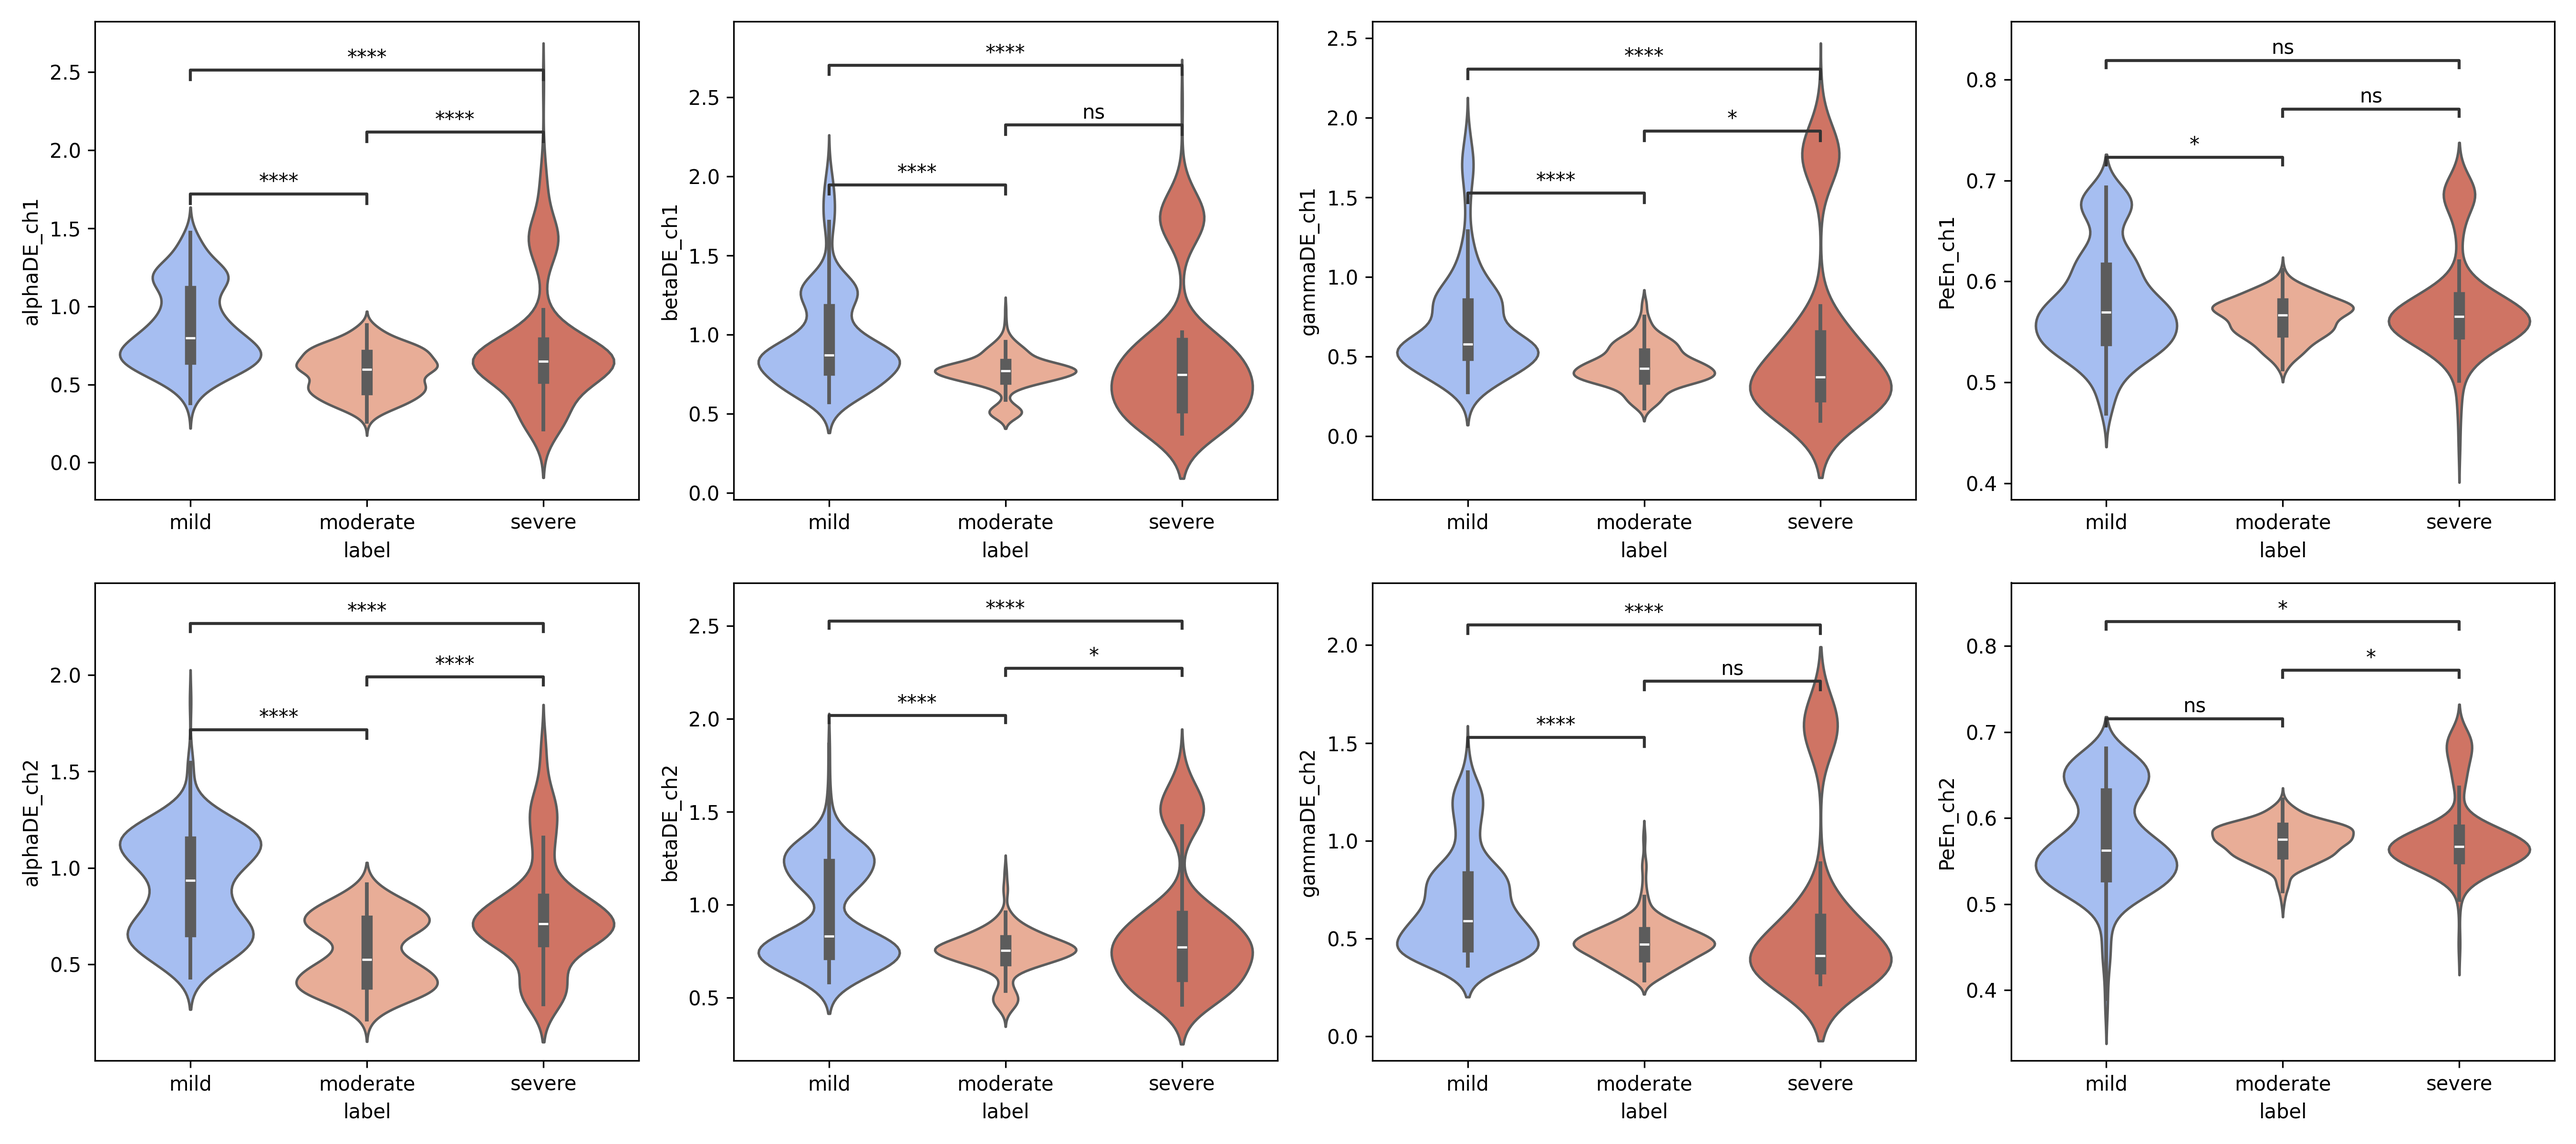
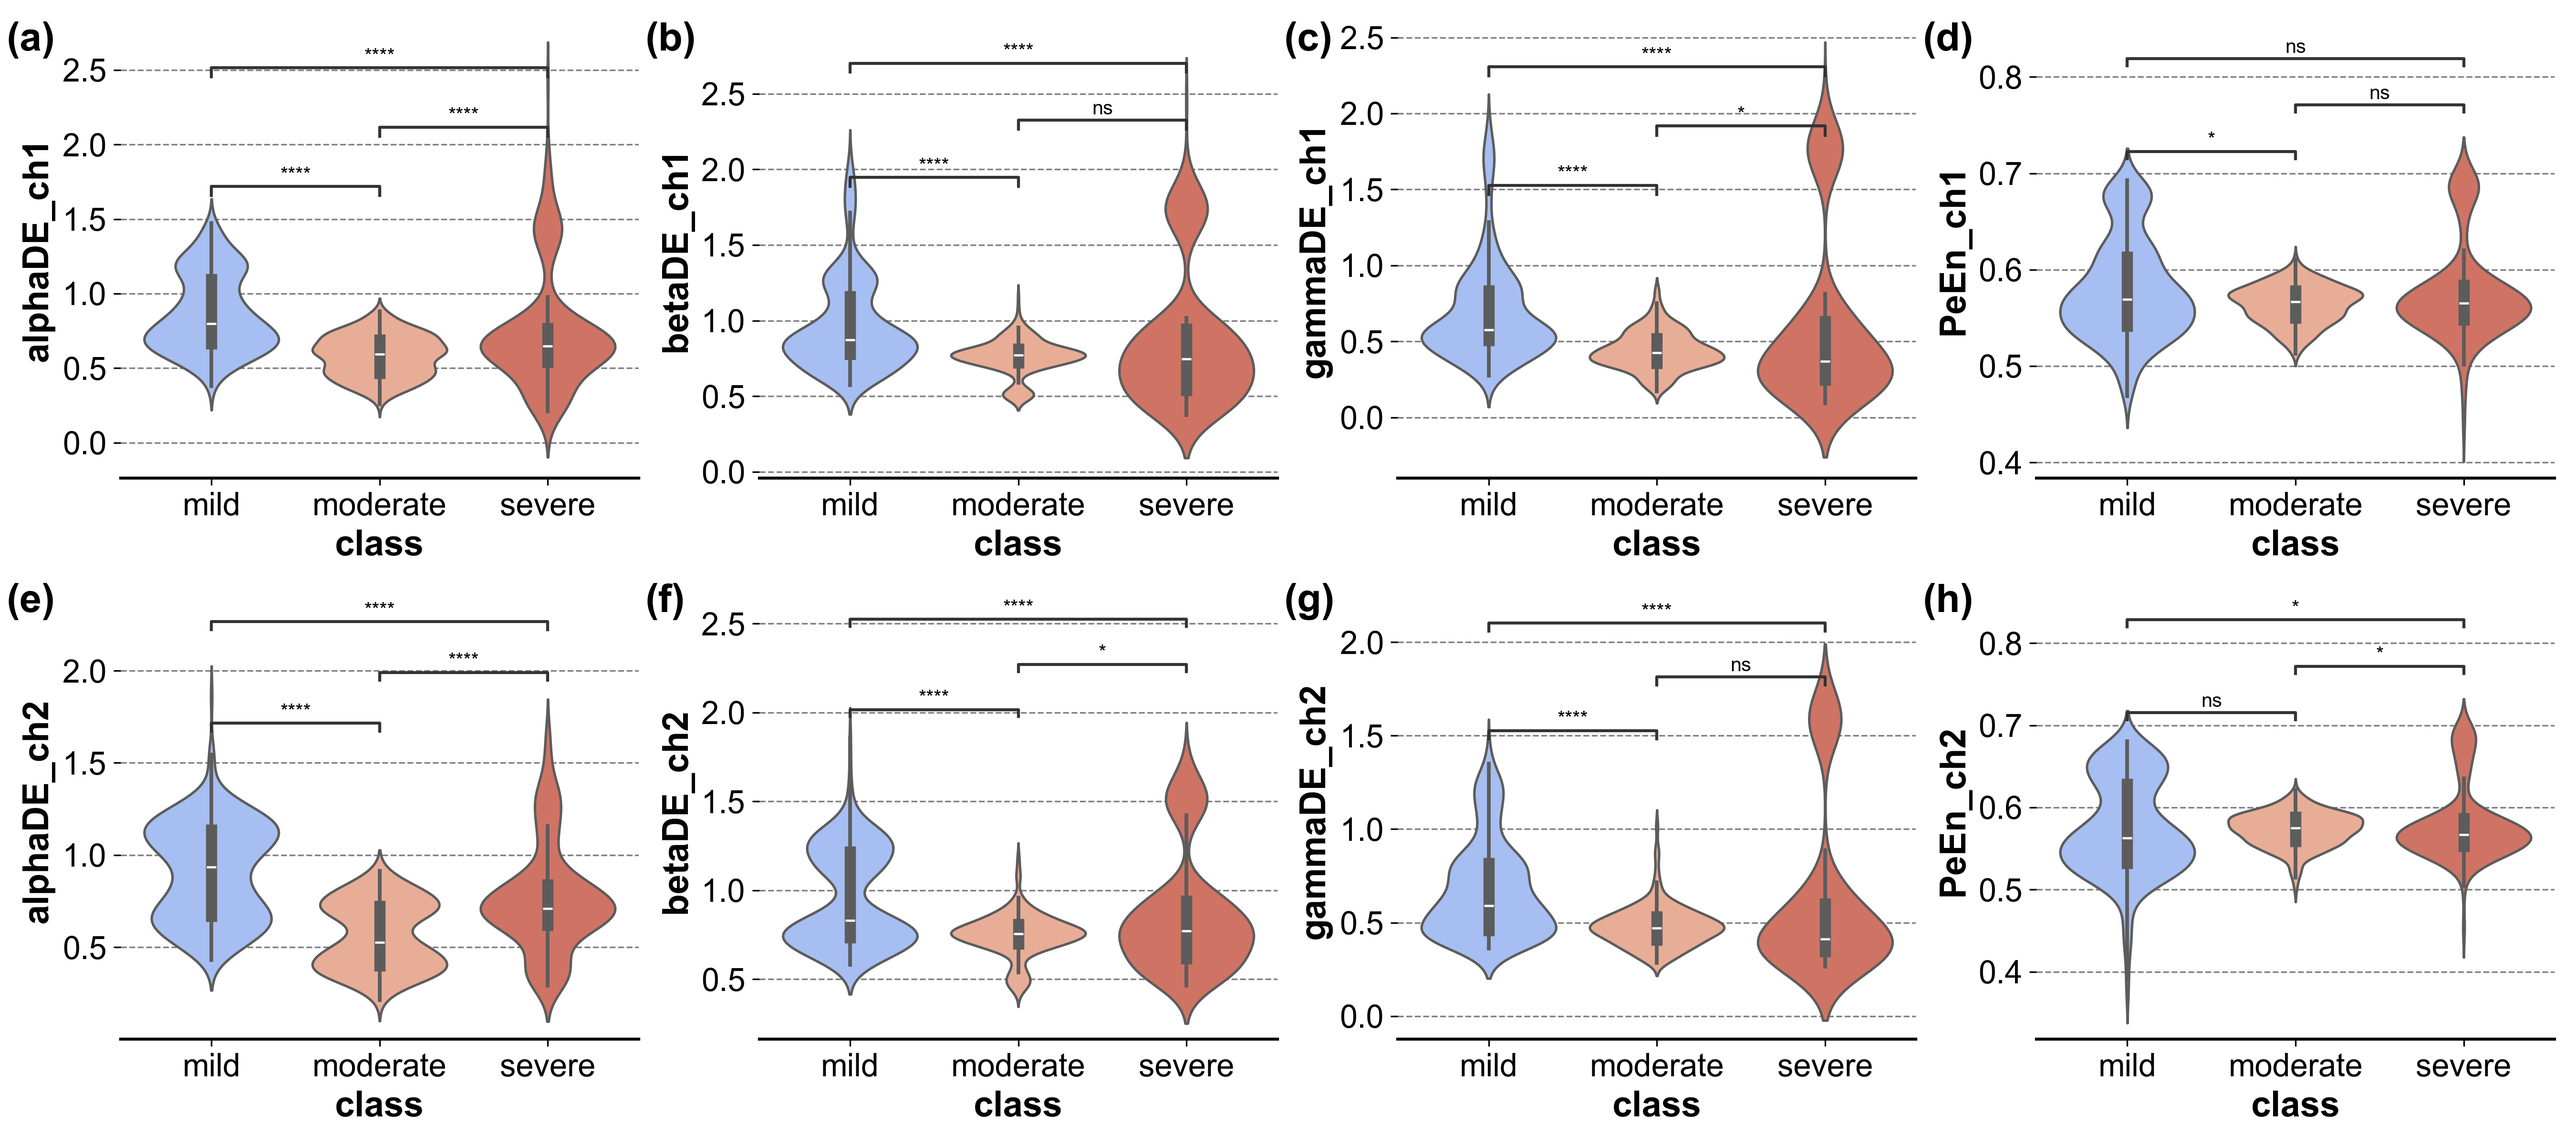
finished Wilcoxon correction. All plots generated

diff --git a/wilcoxon_corrected.py b/wilcoxon_corrected.py
@@ -83,8 +83,21 @@ def violin_with_annotations(feature, ax, pvals):
     pairs = [("mild","moderate"),("moderate","severe"),("mild","severe")]
     annotator = Annotator(ax, pairs, x=df["label"], y=df[feature])
     annotator.set_pvalues_and_annotate(list(pvals))
+    ax.tick_params(labelsize=16)
+    for spine in ["top", "left", "right"]:
+        ax.spines[spine].set_visible(False)
+    ax.spines['bottom'].set_linewidth(1.5)
+    ax.grid(axis='y', ls='--', c='gray')
+    ax.set_axisbelow(True)
+    font = {'family': 'arial', 'weight': 'bold', 'color': 'black', 'fontsize': 18}
+    ax.set_xlabel('class', fontdict=font)
+    ax.set_ylabel(feature, fontdict=font)
     return ax
 
+plt.rcParams['font.family'] = 'Arial'
+# ---------------------------
+# Full 8-feature FDR panel
+#
 # Build a dict of FDR p-values for each feature
 fdr_map = {}
 for feat in forviolin_tick:
@@ -95,23 +108,71 @@ axes = axes.ravel()
 for i,feat in enumerate(forviolin_tick):
     pvals = fdr_map[feat]
     violin_with_annotations(feat, axes[i], pvals)
+# Add numbering to each subplot
+axes_flat = axes.flatten()
+subnum = ['a','b','c','d','e','f','g','h']
+for n, ax in zip(subnum, axes_flat):
+    ax.text(-0.22, 1, f'({n})', transform=ax.transAxes,
+            fontsize=20, fontweight='bold', va='top', ha='left')
 plt.tight_layout()
 plt.savefig("violin_FDR.png", dpi=300)
 plt.show()
 # ---------------------------
-# 4B. Side-by-side raw vs corrected
+# Full 8-feature Bonferroni panel
 # ---------------------------
+bonf_map = {}
 for feat in forviolin_tick:
-    fig, axs = plt.subplots(1,3, figsize=(15,5))
-    for j,(label, col) in enumerate(zip(["Raw","Bonferroni","FDR"],
-                                        ["pval_raw","pval_bonf","pval_fdr"])):
-        ax = sns.violinplot(x=df["label"], y=df[feat],
-                            palette=['#99BAFE','#F6A789','#E16852'], ax=axs[j])
-        pairs = [("mild","moderate"),("moderate","severe"),("mild","severe")]
-        annotator = Annotator(ax, pairs, x=df["label"], y=df[feat])
-        annotator.set_pvalues_and_annotate(list(resdf.loc[resdf["feature"]==feat, col]))
-        ax.set_title(f"{feat} ({label})")
-    plt.tight_layout()
-    plt.savefig(f"violin_{feat}_raw_vs_corrected.png", dpi=300)
-    plt.show()
+    bonf_map[feat] = resdf.loc[resdf["feature"]==feat, "pval_bonf"].values
 
+fig, axes = plt.subplots(2,4, figsize=(18,7))
+axes = axes.ravel()
+for i,feat in enumerate(forviolin_tick):
+    pvals = bonf_map[feat]
+    violin_with_annotations(feat, axes[i], pvals)
+# Add numbering to each subplot
+axes_flat = axes.flatten()
+subnum = ['a','b','c','d','e','f','g','h']
+for n, ax in zip(subnum, axes_flat):
+    ax.text(-0.2, 1, f'({n})', transform=ax.transAxes,
+            fontsize=20, fontweight='bold', va='top', ha='left')
+plt.tight_layout()
+plt.savefig("violin_Bonferroni.png", dpi=300)
+plt.show()
+# ---------------------------
+# Full 8-feature raw panel
+# ---------------------------
+raw_map = {}
+for feat in forviolin_tick:
+    raw_map[feat] = resdf.loc[resdf["feature"]==feat, "pval_raw"].values
+
+fig, axes = plt.subplots(2,4, figsize=(18,7))
+axes = axes.ravel()
+for i,feat in enumerate(forviolin_tick):
+    pvals = raw_map[feat]
+    violin_with_annotations(feat, axes[i], pvals)
+# Add numbering to each subplot
+axes_flat = axes.flatten()
+subnum = ['a','b','c','d','e','f','g','h']
+for n, ax in zip(subnum, axes_flat):
+    ax.text(-0.2, 1, f'({n})', transform=ax.transAxes,
+            fontsize=20, fontweight='bold', va='top', ha='left')
+plt.tight_layout()
+plt.savefig("violin_raw.png", dpi=300)
+plt.show()
+# # ---------------------------
+# # 4B. Side-by-side raw vs corrected
+# # ---------------------------
+# for feat in forviolin_tick:
+#     fig, axs = plt.subplots(1,3, figsize=(15,5))
+#     for j,(label, col) in enumerate(zip(["Raw","Bonferroni","FDR"],
+#                                         ["pval_raw","pval_bonf","pval_fdr"])):
+#         ax = sns.violinplot(x=df["label"], y=df[feat],
+#                             palette=['#99BAFE','#F6A789','#E16852'], ax=axs[j])
+#         pairs = [("mild","moderate"),("moderate","severe"),("mild","severe")]
+#         annotator = Annotator(ax, pairs, x=df["label"], y=df[feat])
+#         annotator.set_pvalues_and_annotate(list(resdf.loc[resdf["feature"]==feat, col]))
+#         ax.set_title(f"{feat} ({label})")
+#     plt.tight_layout()
+#     plt.savefig(f"violin_{feat}_raw_vs_corrected.png", dpi=300)
+#     plt.show()
+#
